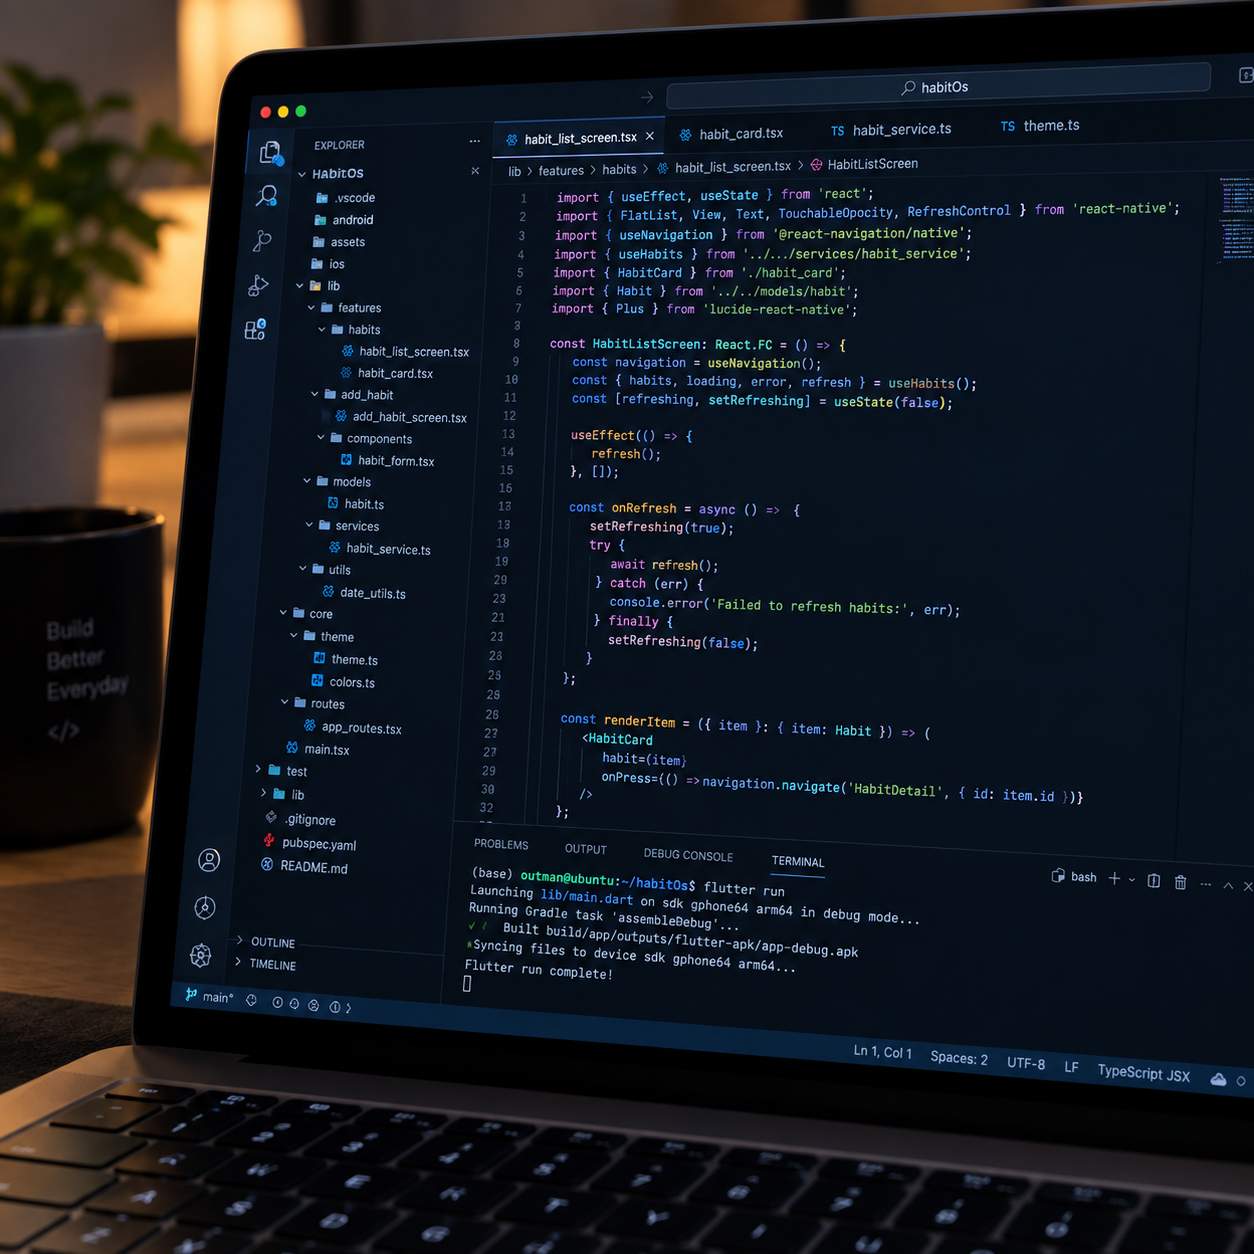
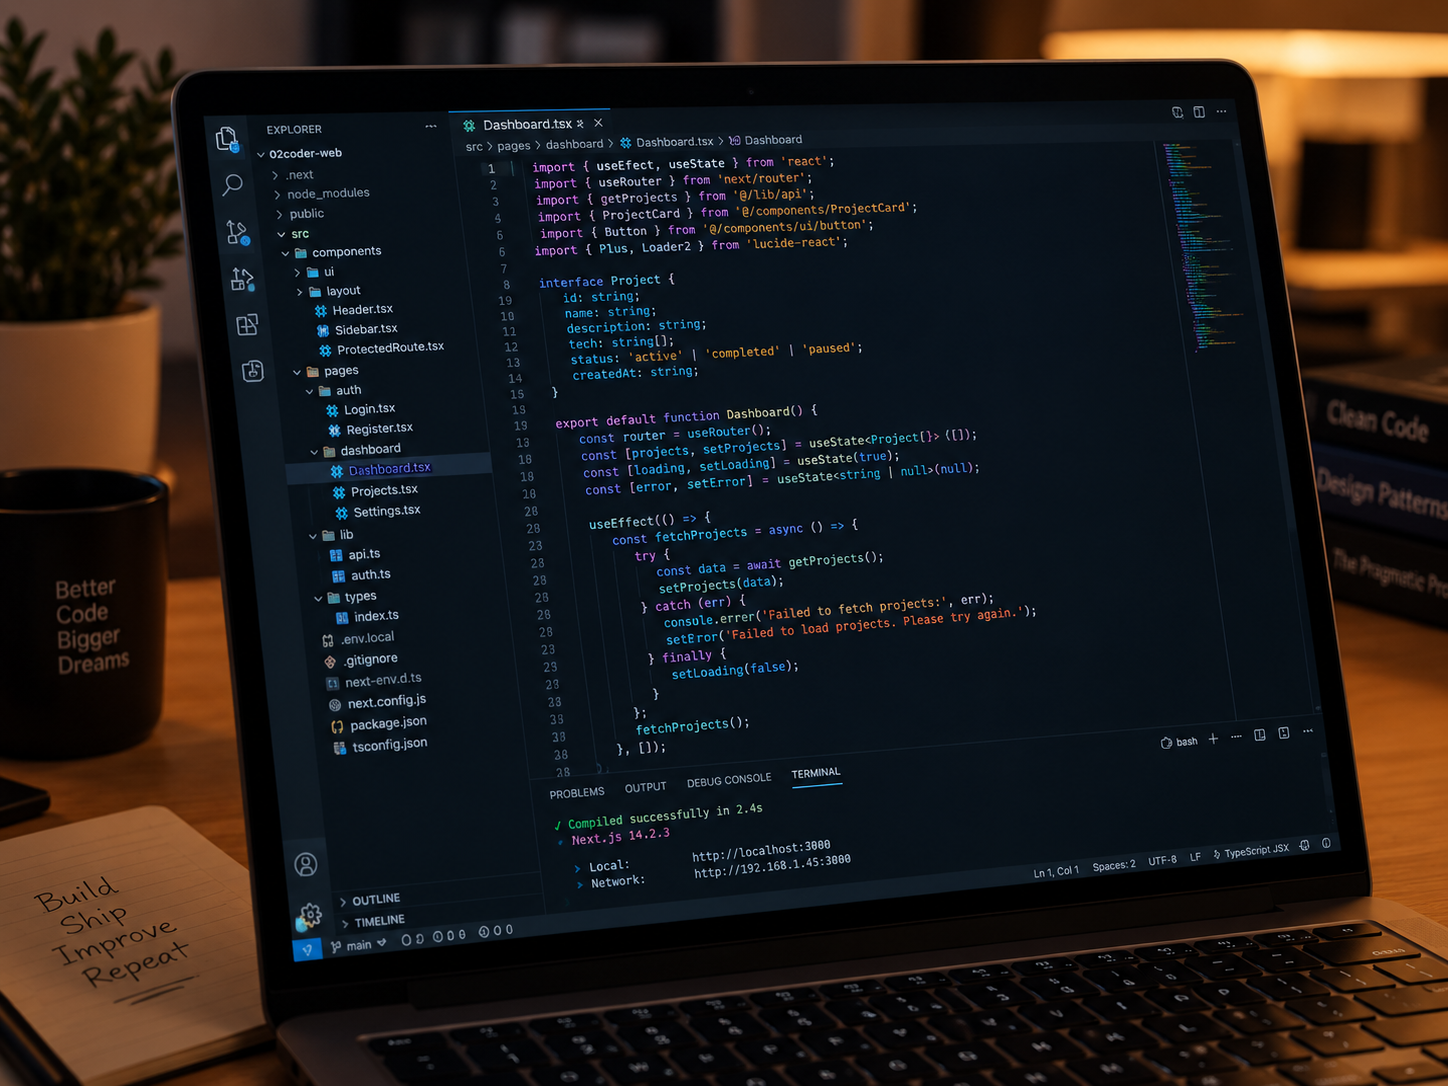
adding thumbnails

diff --git a/app/src/data/projects/projects.data.ts b/app/src/data/projects/projects.data.ts
@@ -10,9 +10,9 @@ export const projectsData: Project[] = [
     description: 'A freelance full-stack platform built with Next.js and Django, containerized with Docker on a production VPS.',
     overview: 'Skatys is a custom-engineered web application combining a hyper-fast Next.js frontend with a robust Django REST backend. Deployed on a Linux VPS using Docker containers and NGINX reverse proxy for high security and performance.',
     conclusion: 'Delivered a production-ready freelance project with high-speed rendering, seamless database queries, and custom UI components.',
-    thumbnail: '/images/skatys/skatys website.png',
-    heroImage: '/images/skatys/skatys website.png',
-    coverImage: '/images/skatys/skatys website.png',
+    thumbnail: '/images/skatys/skatys.jpeg',
+    heroImage: '/images/skatys/skatys.jpeg',
+    coverImage: '/images/skatys/skatys.jpeg',
     images: [
       '/images/skatys/Screen Shot 2026-07-02 at 6.19.09 PM.png',
       '/images/skatys/Screen Shot 2026-07-02 at 6.19.30 PM.png',
@@ -43,9 +43,9 @@ export const projectsData: Project[] = [
     description: 'A dynamic online multiplayer gaming platform with WebSockets, custom canvas physics, and tournament ladder system.',
     overview: 'Pong Arena brings classic arcade competition into modern browser architecture. Built using pure JavaScript/TypeScript, WebSockets for ultra-low latency real-time player synchronisation, and responsive UI.',
     conclusion: 'Successfully delivered a real-time multiplayer gaming platform with smooth 60 FPS canvas rendering and responsive controls.',
-    thumbnail: '/images/pong/pongarena.jpeg',
-    heroImage: '/images/pong/pongarena.jpeg',
-    coverImage: '/images/pong/pongarena.jpeg',
+    thumbnail: '/images/pong/pong thumbnail.jpeg',
+    heroImage: '/images/pong/pong thumbnail.jpeg',
+    coverImage: '/images/pong/pong thumbnail.jpeg',
     images: [
       '/images/pong/pongarena.jpeg',
       '/images/pong/pongarena1.jpeg',
@@ -75,9 +75,9 @@ export const projectsData: Project[] = [
     description: 'A fully isolated multi-container DevOps stack running NGINX TLS, WordPress, and MariaDB built from scratch.',
     overview: 'Inception is a system administration project focusing on building a virtualized container stack using Docker and Alpine Linux. Every service runs isolated with strict volume persistence and TLS encryption.',
     conclusion: 'Demonstrated complete mastery of Linux networking, SSL certification, shell scripting, and container orchestration.',
-    thumbnail: '/images/revo/revo.jpeg',
-    heroImage: '/images/revo/revo.jpeg',
-    coverImage: '/images/revo/revo.jpeg',
+    thumbnail: '/images/revo/revo thumbnail.jpeg',
+    heroImage: '/images/revo/revo thumbnail.jpeg',
+    coverImage: '/images/revo/revo thumbnail.jpeg',
     images: [
       '/images/revo/revo.jpeg',
       '/images/revo/revo1.png',

diff --git a/app/src/lib/constants.ts b/app/src/lib/constants.ts
@@ -58,15 +58,17 @@ export const CLIENT_NAMES = [
 ];
 
 export const FOOTER_IMAGES = [
-  '/images/call-to-action/n8n Automation Workflow .png',
-  '/images/call-to-action/full-stack developer.png',
-  '/images/habivio/habivio.png',
-  '/images/revo/revo.jpeg',
+  // '/images/call-to-action/full-stack developer.png',
+  // '/images/call-to-action/mobile app.png',
+  '/images/skatys/skatys.jpeg',
+  'https://images.unsplash.com/photo-1555421689-491a97ff2040?w=1200&q=80',
+  'https://images.unsplash.com/photo-1558618666-fcd25c85cd64?w=1200&q=80',
   'https://images.unsplash.com/photo-1618005182384-a83a8bd57fbe?w=600&q=80',
   'https://images.unsplash.com/photo-1499951360447-b19be8fe80f5?w=600&q=80',
+  '/images/revo/revo thumbnail.jpeg',
 ];
 
-export const CONTACT_SPOTLIGHT_IMAGE = '/images/studio-card.jpg';
+export const CONTACT_SPOTLIGHT_IMAGE = '/images/call-to-action/lets work.jpeg';
 
 export const NAV_MENU_ITEMS = [
   { label: 'Home', href: '/' },

diff --git a/app/src/components/layout/FullscreenMenu.tsx b/app/src/components/layout/FullscreenMenu.tsx
@@ -37,22 +37,22 @@ const COL_1_ITEMS = [
   {
     label: 'HOME',
     href: '/',
-    img: 'https://images.unsplash.com/photo-1558618666-fcd25c85cd64?w=600&q=80',
+    img: '/images/call-to-action/home.jpeg',
   },
   {
     label: 'WORK',
     href: '/work',
-    img: 'https://images.unsplash.com/photo-1561070791-2526d30994b5?w=600&q=80',
+    img: '/images/call-to-action/work.jpeg',
   },
   {
     label: 'SERVICES',
     href: '/#services',
-    img: 'https://images.unsplash.com/photo-1499951360447-b19be8fe80f5?w=600&q=80',
+    img: '/images/call-to-action/services.jpeg',
   },
   {
-    label: 'APPROACH',
+    label: 'ABOUT',
     href: '/about',
-    img: 'https://images.unsplash.com/photo-1555421689-491a97ff2040?w=600&q=80',
+    img: '/images/call-to-action/about.jpeg',
   },
 ];
 
